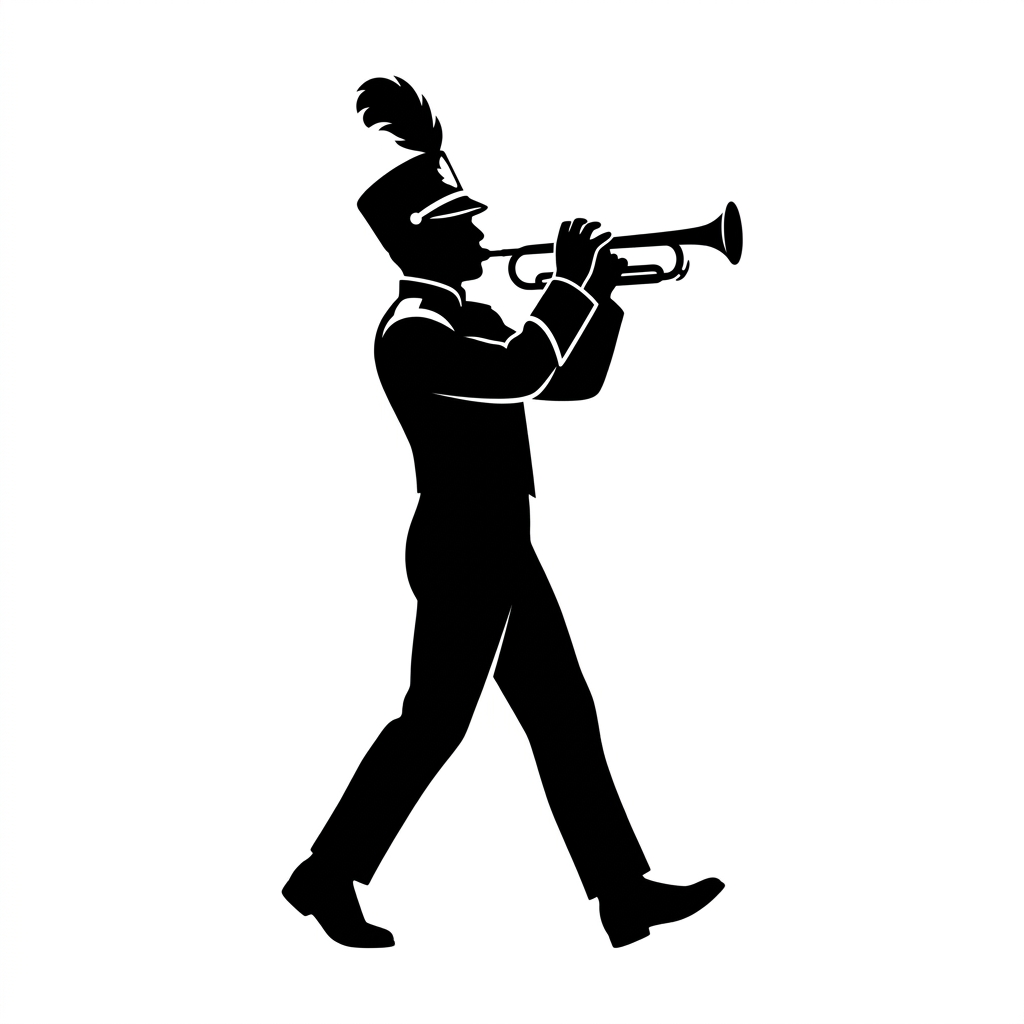
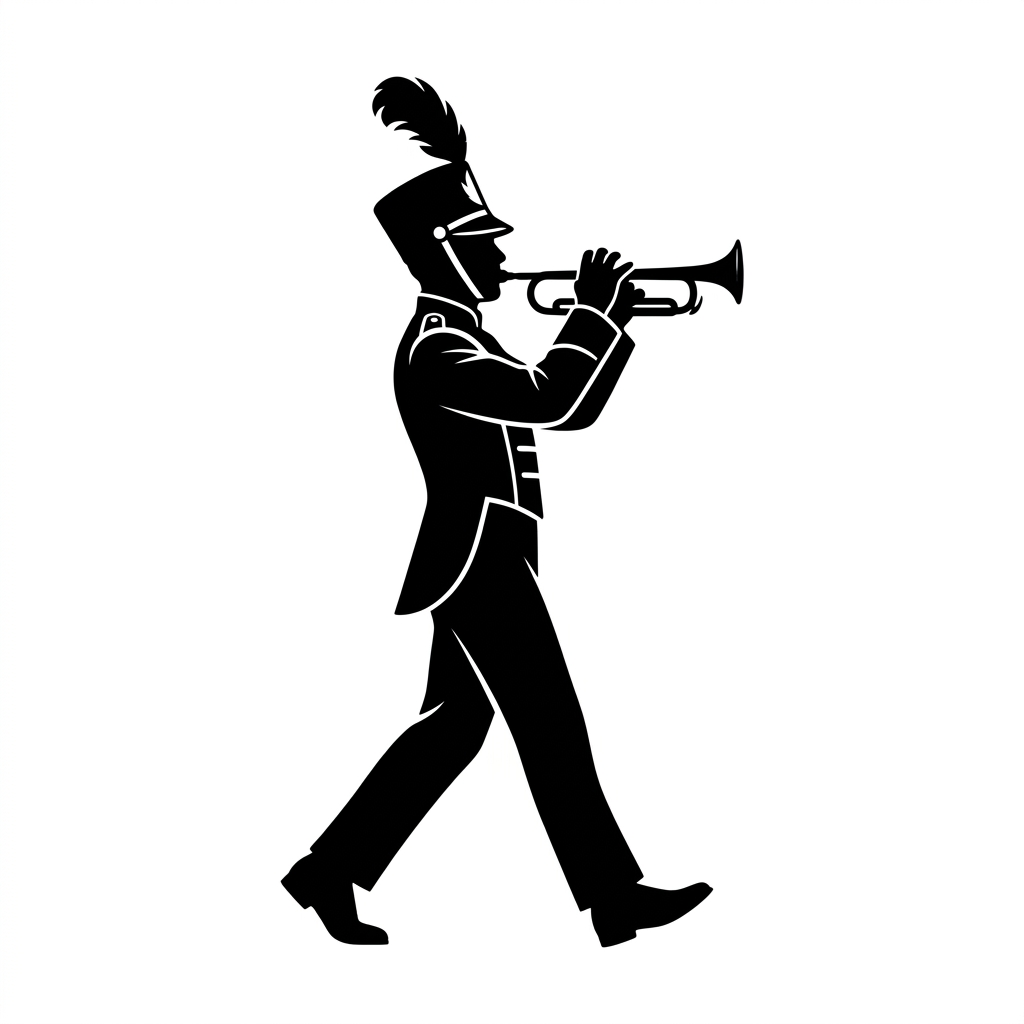
feat: add specific silhouette images for specific extracurriculars and update view logic

diff --git a/resources/views/landing/partials/kegiatan-siswa.blade.php b/resources/views/landing/partials/kegiatan-siswa.blade.php
@@ -294,10 +294,14 @@
                         case 'olahraga': $bgColor = '#ecfdf5'; $textColor = '#059669'; break;
                         case 'sains_it': $bgColor = '#ecfeff'; $textColor = '#0891b2'; break;
                     }
+                    
+                    $specificImg = 'images/ekskul/' . str_replace('-', '_', \Illuminate\Support\Str::slug($ekskul->name)) . '_bg.jpg';
+                    $categoryImg = 'images/ekskul/' . $ekskul->category . '_bg.jpg';
+                    $bgImgSrc = file_exists(public_path($specificImg)) ? asset($specificImg) : asset($categoryImg);
                 @endphp
                 
                 <div class="bento-card {{ $bentoClass }}" style="background: {{ $bgColor }}; border: 1.5px solid #000000; box-shadow: 4px 4px 0px rgba(0,0,0,0.1);">
-                    <img class="bento-watermark" src="{{ asset('images/ekskul/' . $ekskul->category . '_bg.jpg') }}" alt="Background" onerror="this.style.display='none'">
+                    <img class="bento-watermark" src="{{ $bgImgSrc }}" alt="Background" onerror="this.style.display='none'">
                     
                     <div class="bento-content">
                         <div style="display: flex; justify-content: space-between; align-items: flex-start; width: 100%;">
